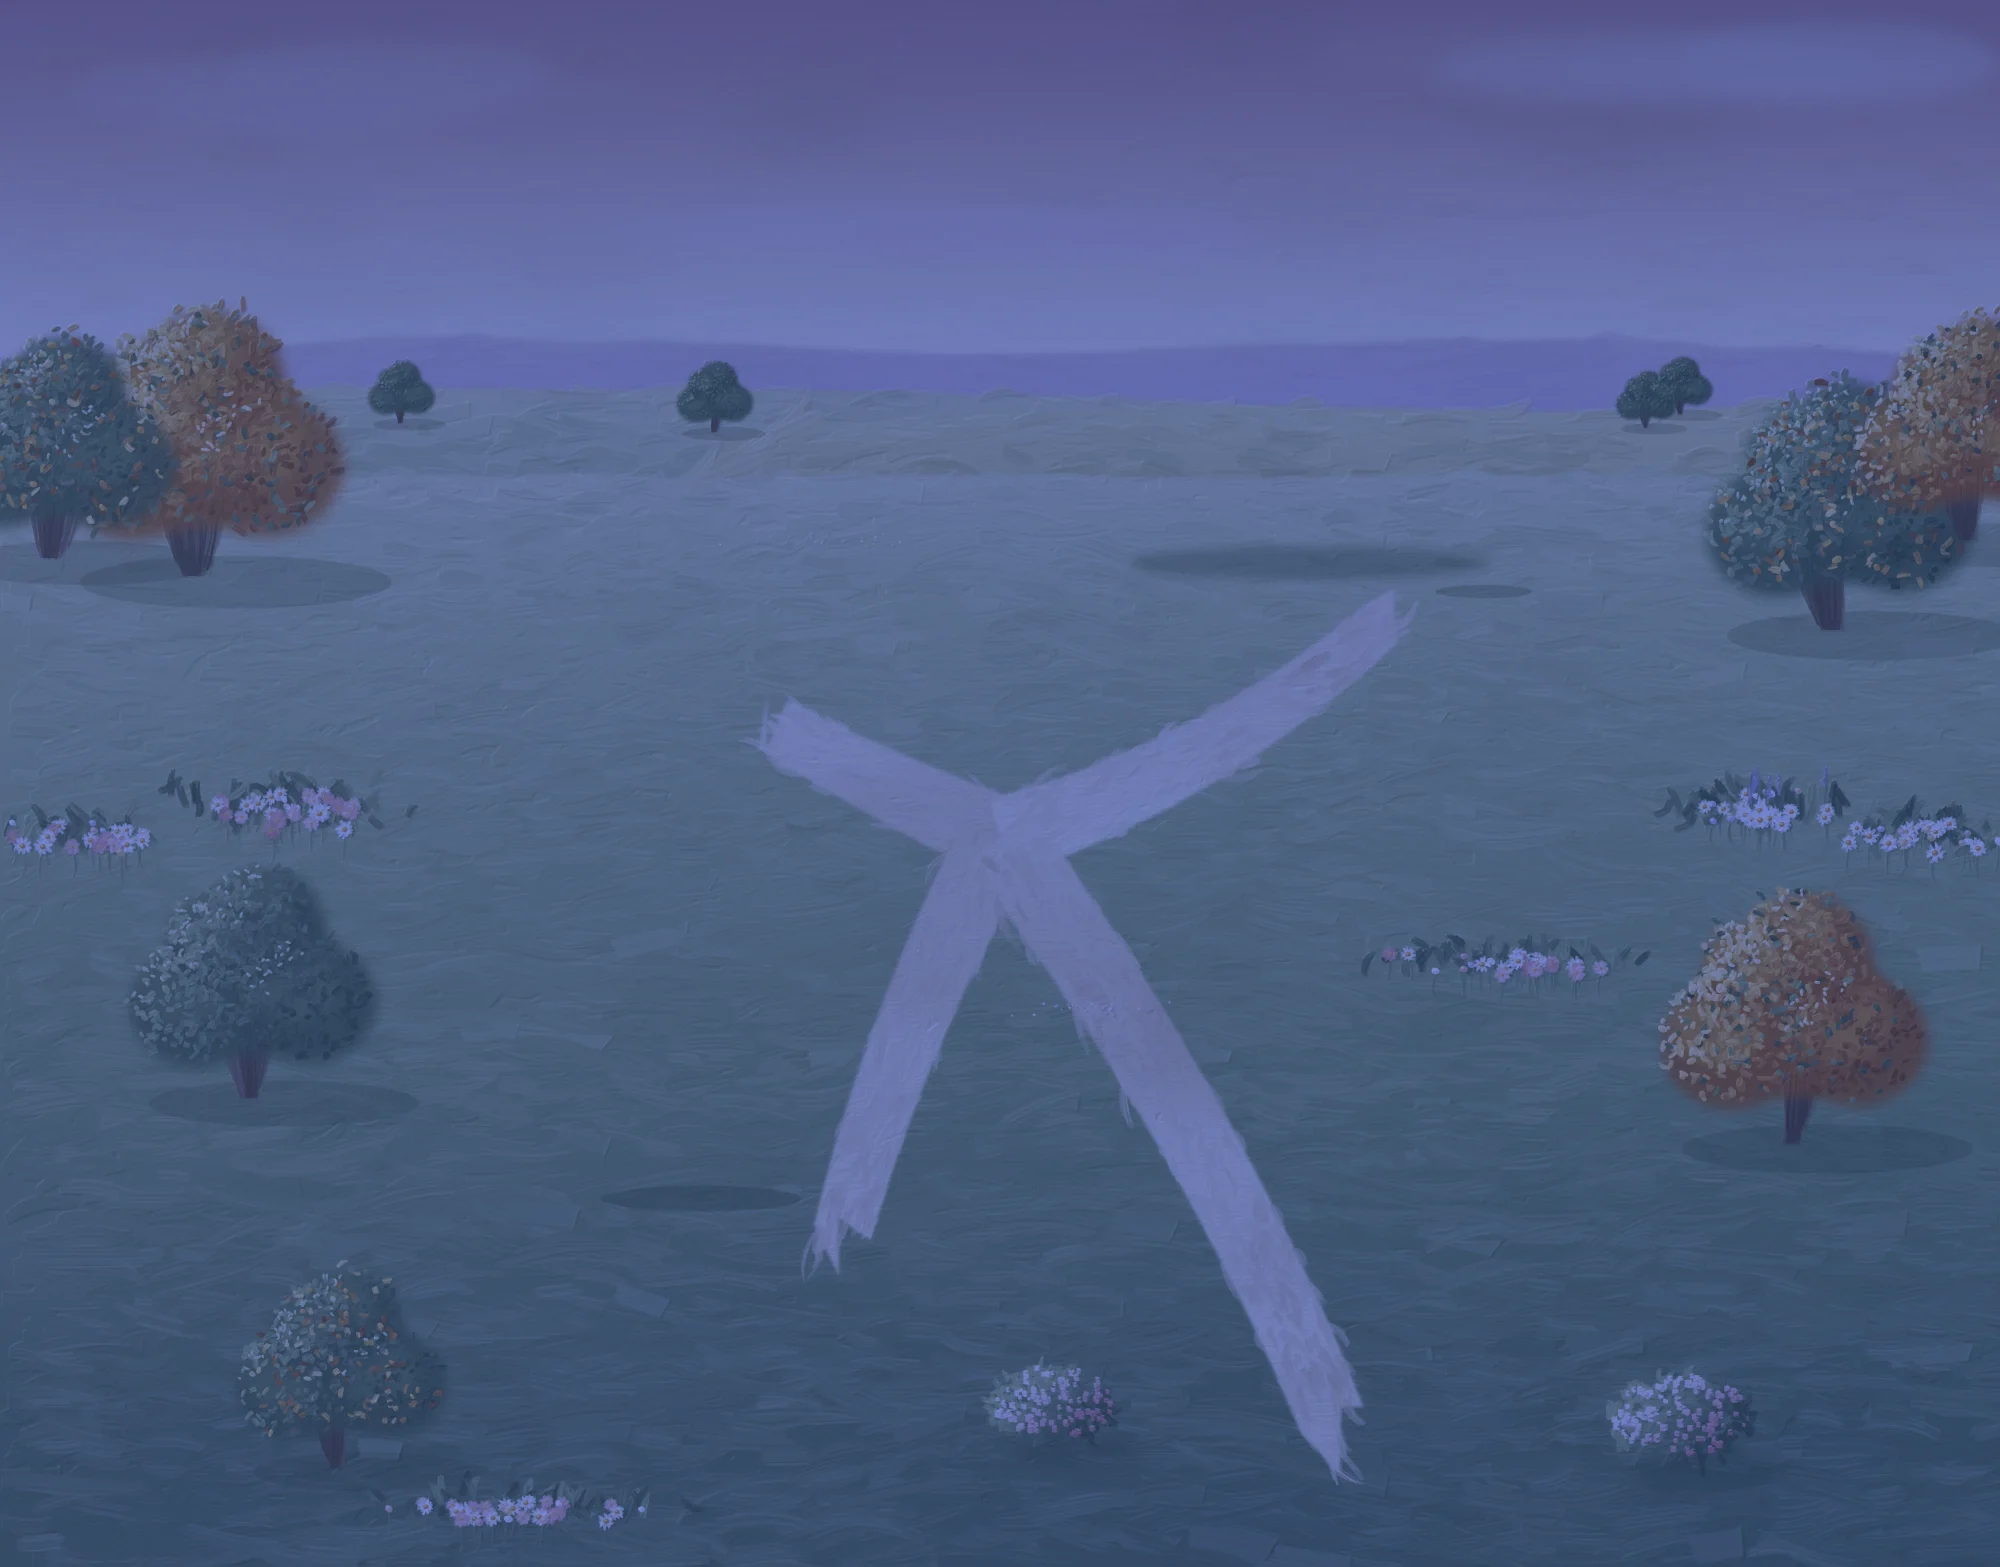
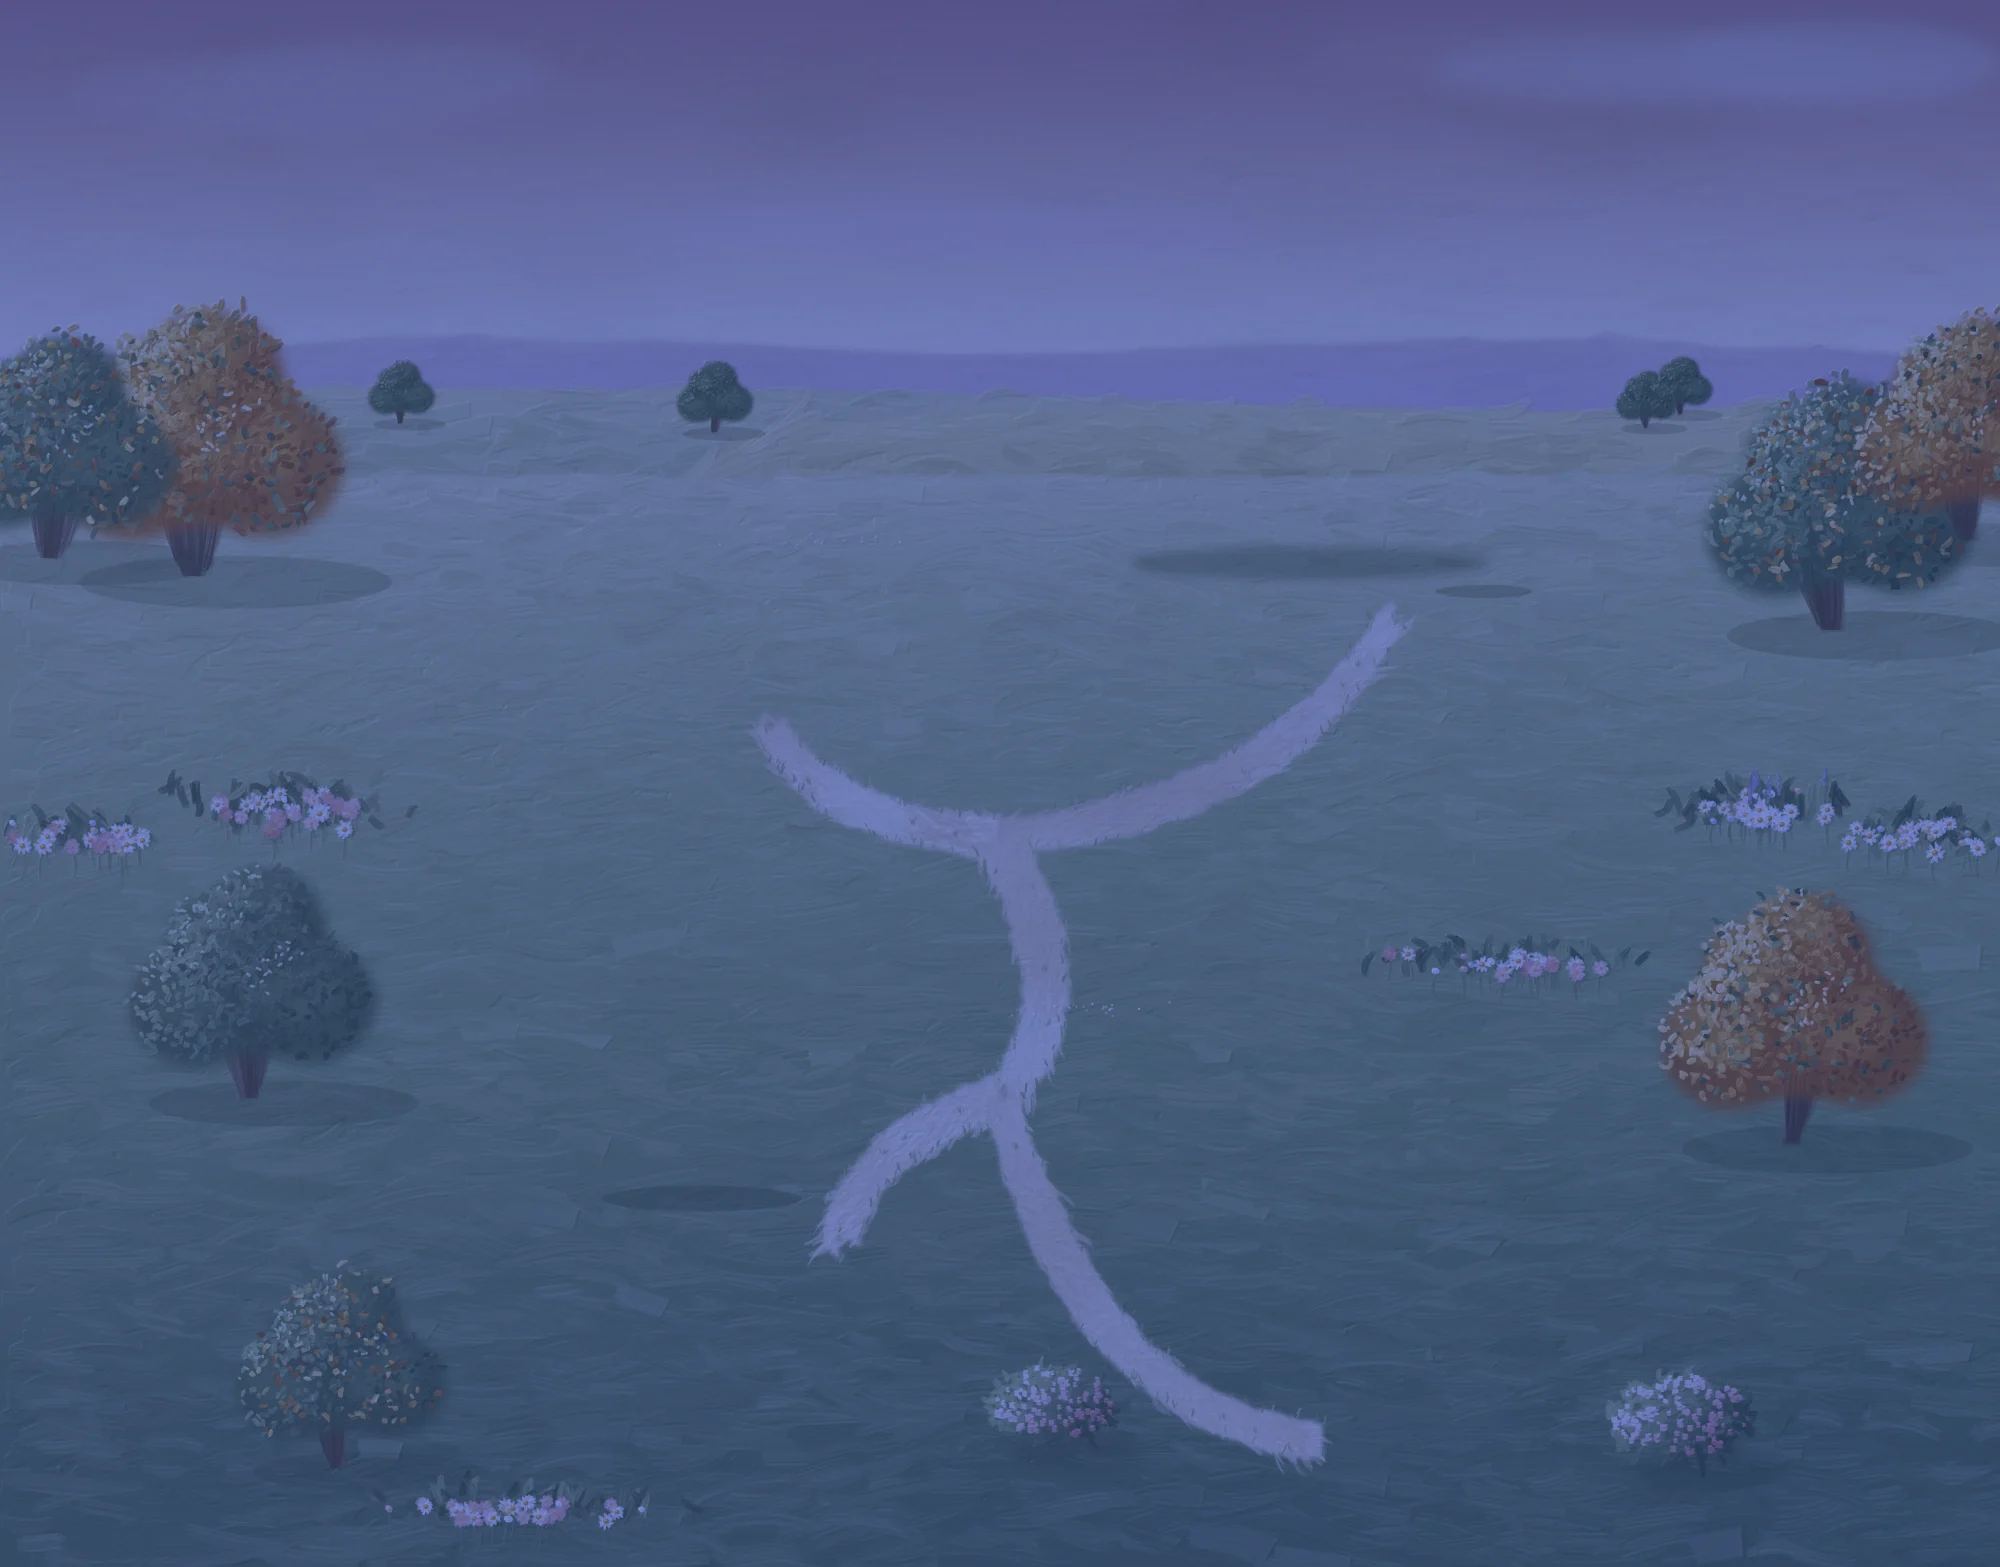
Work garden: narrow curving trails, gentle forks, no scroll note
- Trails ~40% narrower, curved, with wavering width, ragged soft edges, fine cream
  strokes and grass creeping in; a three-way fork at the girl's spot and a second
  small fork lower down replace the X; the girl's walks follow them (waypoints).
- 'More of the garden below' and its arrow removed (both languages).
- Notes the two watermarks burned into the film (left untouched pending a clean export).

Changed region(s): [[0.372, 0.3982, 0.682, 0.9496]]

diff --git a/src/app/globals.css b/src/app/globals.css
@@ -879,25 +879,6 @@ html:has(.work-page) body > footer { display: none; }
   pointer-events: none;
 }
 .work-landmark[data-state="hover"] .work-cue { opacity: 1; animation: work-cue 1s ease-in-out infinite; }
-/* the foot of the first screen: a handwritten note and a slow chevron saying the garden carries on below */
-.work-more {
-  left: 50%;
-  z-index: 2000;
-  display: flex;
-  flex-direction: column;
-  align-items: center;
-  gap: 0.15rem;
-  transform: translate(-50%, -100%);
-  color: #3c5639;
-  pointer-events: none;
-  text-shadow: 0 0 10px rgb(251 247 238 / 0.95), 0 1px 2px rgb(251 247 238 / 0.9);
-}
-.work-more__text { font-family: "Garden Hei", var(--font-caveat), cursive; font-weight: 700; font-size: clamp(1rem, 1.35vw, 1.35rem); line-height: 1; white-space: nowrap; }
-.work-more__chev { width: clamp(16px, 1.3vw, 22px); aspect-ratio: 20 / 14; filter: drop-shadow(0 0 4px rgb(251 247 238 / 0.9)); animation: work-more 2.4s ease-in-out infinite; }
-@keyframes work-more { 50% { translate: 0 35%; } }
-html[data-night-ink] .work-more { color: #f4ecd9; text-shadow: 0 0 10px rgb(20 28 48 / 0.95), 0 1px 2px rgb(20 28 48 / 0.9); }
-html[data-night-ink] .work-more__chev { filter: drop-shadow(0 0 4px rgb(20 28 48 / 0.9)); }
-@media (prefers-reduced-motion: reduce) { .work-more__chev { animation: none; } }
 @keyframes work-cue {
   0%, 100% { translate: 0 0; }
   50% { translate: 0 -30%; }

diff --git a/src/components/work/WorkGarden.tsx b/src/components/work/WorkGarden.tsx
@@ -246,14 +246,6 @@ function Stage({ fmt, c, ratio, className }: { fmt: "desktop" | "mobile"; c: Com
           );
         })}
 
-        {/* at the foot of the first screen: the garden carries on below */}
-        <span aria-hidden="true" className="work-more absolute" style={fmt === "desktop" ? { top: pct(c.screen * 0.975), left: pct(c.start[0] + 0.13) } : { top: pct(c.screen * 0.945), left: pct(c.start[0] - 0.34) }}>
-          <span className="work-more__text">{t.work.more}</span>
-          <svg viewBox="0 0 20 14" className="work-more__chev">
-            <path d="M2 2 L10 11 L18 2" fill="none" stroke="currentColor" strokeWidth="2.6" strokeLinecap="round" strokeLinejoin="round" />
-          </svg>
-        </span>
-
         {/* the guide, anchored at her feet */}
         <div
           ref={girlRef}

diff --git a/src/i18n/ui.ts b/src/i18n/ui.ts
@@ -33,7 +33,6 @@ const en = {
   },
   work: {
     heading: "Choose a place to explore my work.",
-    more: "More of the garden below",
     landmark: (title: string, category: "personal" | "academic", place: string) =>
       `${title}, ${category} project. Walk to ${place.replace(/^The /, "the ")} and open it`,
   },
@@ -116,7 +115,6 @@ const zh: Ui = {
   },
   work: {
     heading: "选一处角落，看看我的作品吧。",
-    more: "往下走，花园里还有更多",
     landmark: (title, category, place) => `${title}，${category === "academic" ? "学术项目" : "个人项目"}。走到${place}，打开这个项目`,
   },
   cs: {

diff --git a/docs/ASSET-MANIFEST.md b/docs/ASSET-MANIFEST.md
@@ -94,6 +94,9 @@ The two categories stay separate.
   - Specs: 1920 × 1080, 59.9 s, 85.2 MB, H.264 High@4.0 (~11.2 Mbps), AAC stereo (~187 kbps).
   - The master on the Desktop is untouched.
   - The file is not committed to git (`.gitignore`). At 85 MB it is too large for some hosts' per-file limits (Cloudflare Pages: 25 MiB), and GitHub warns above 50 MB. Copy it in (or remux again) before deploying, or serve it from object storage.
+- **Marks burned into the film (checked 2026-11-21):** "AI生成+" (top-left, 0–~1.5 s) and "KlingAI 4.0" (bottom-right, ~8–11.5 s). The player adds nothing.
+  - They are part of the video pixels and are not painted out.
+  - A clean export from the production tools, if Zhinuo supplies one, would replace this file (same lossless remux). The Desktop master stays as it is.
 - **`public/video/aurelle-poster-{1920,1280}.webp`:** one real frame of the film (59.0 s, the closing product shot), resized only.
 
 **Category A (decorative garden art, not project work):**

diff --git a/docs/TRANSLATION-NOTES.md b/docs/TRANSLATION-NOTES.md
@@ -82,7 +82,6 @@ These have no Chinese original:
   | CapCut, Kling | 剪映、可灵 (the tools' official Chinese names) |
   | Overview | 概述 (as on the other case studies) |
   | The Commercial | 广告片 |
-  | More of the garden below (Work page) | 往下走，花园里还有更多 |
 
   - Overview sentence: AURELLE 是我个人创作的一支 AI 生成护肤精华广告片，探索生成式 AI 在美妆广告与视觉叙事中的运用。
   - "AURELLE" stays in English. Text inside the film is not translated.
